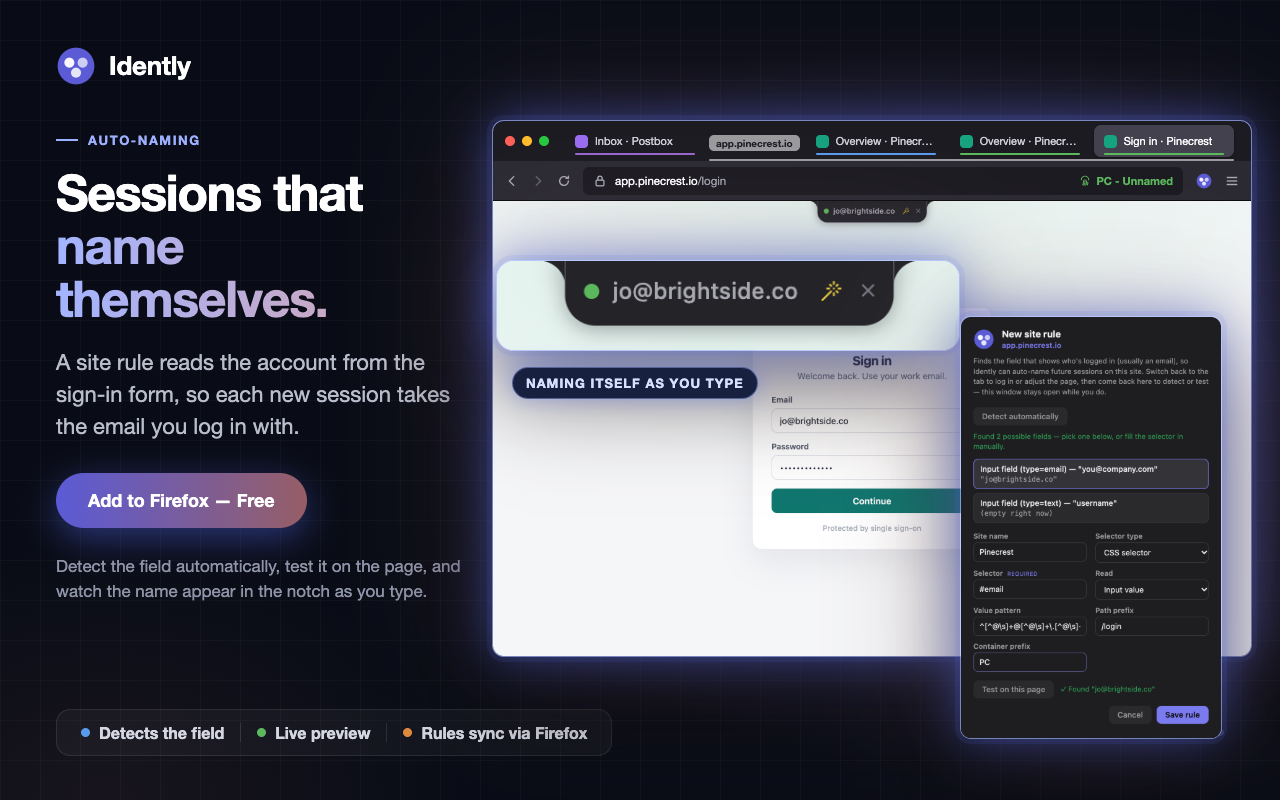
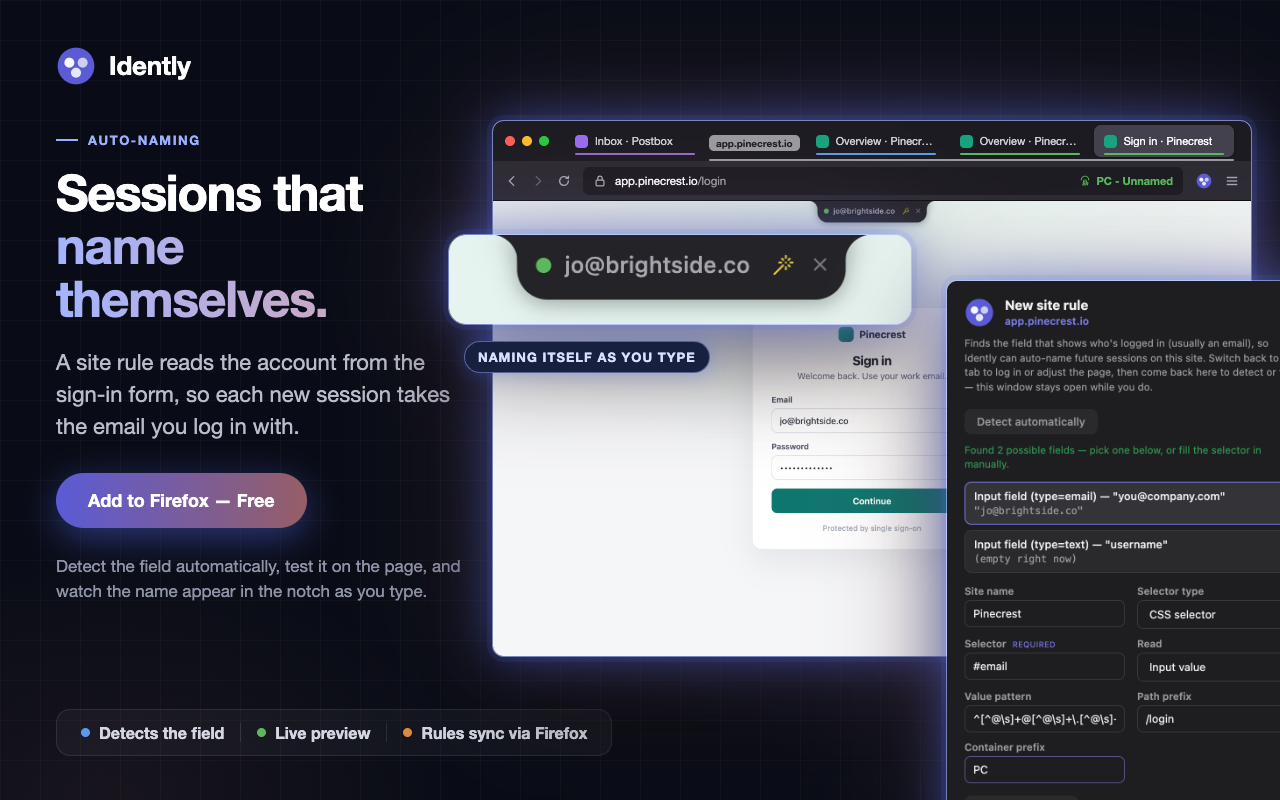
feat: update badge styling for improved visual alignment and adjust asset images

Changed region(s): [[0.3125, 0.25, 1.0, 1.0]]

diff --git a/content.js b/content.js
@@ -822,10 +822,13 @@
        notch colour on each side with a quarter-circle masked out of the
        corner facing AWAY from the bar, which leaves ink hugging the top edge
        and the bar's vertical side — so the edge curves out and back in
-       rather than meeting the bar at a hard right angle. */
+       rather than meeting the bar at a hard right angle. Each square is 1px
+       wider than the fillet so it tucks under the bar: butted exactly
+       against it, the two anti-aliased edges leave a faint vertical seam
+       whenever the notch sits on a half pixel (translateX(-50%) often does). */
     .badge::before, .badge::after {
       content: ""; position: absolute; top: 0;
-      width: ${NOTCH_FILLET}px; height: ${NOTCH_FILLET}px;
+      width: ${NOTCH_FILLET + 1}px; height: ${NOTCH_FILLET}px;
       background: ${NOTCH_BG}; pointer-events: none;
     }
     .badge::before {
